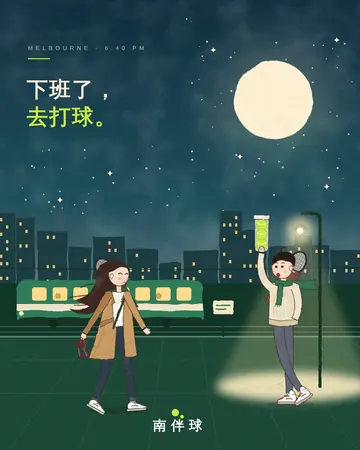
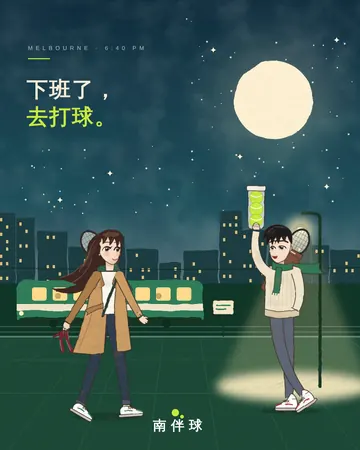
海报 85–86：漫画式五官和发型（storyface.py），人物放大
Claude-Session: https://claude.ai/code/session_014vi3eYmPjWCr2gwRMhjjif

diff --git a/marketing/storyface.py b/marketing/storyface.py
@@ -1,0 +1,125 @@
+"""绘本人物 v3 的头（11-10）：漫画式五官——有虹膜和高光的眼睛、眉形、尖下巴的脸型、一簇一簇的发梢和发丝高光。
+局部坐标：脸中心 (0,0)，脸高约 70；默认 3/4 侧脸朝右，mirror=-1 朝左。
+返回 (后发, 前面的头)：后发要画在身体后面。
+"""
+from storybook import OUT, SKIN
+
+SK_SH = '#EDBDA5'
+_n = [0]
+
+
+def _id(p):
+    _n[0] += 1
+    return f'{p}{_n[0]}'
+
+
+def _eye(cx, cy, w, h, look=(0, 0), lash=True, iris='#4A2A1C', sharp=False, gid=''):
+    """一只眼：眼白 + 渐变虹膜 + 两个高光 + 粗上眼线（女生外眼角上挑的睫毛）。"""
+    x0, x1 = cx - w / 2, cx + w / 2
+    top = cy - h * (0.62 if not sharp else 0.48)
+    shape = f'M{x0} {cy} C{cx - w*.25} {top} {cx + w*.25} {top - h*.05} {x1} {cy - h*.18} C{cx + w*.2} {cy + h*.42} {cx - w*.25} {cy + h*.4} {x0} {cy} Z'
+    cid = _id('ec')
+    ix, iy = cx + w * .06 + look[0], cy - h * .02 + look[1]
+    g = (f'<clipPath id="{cid}"><path d="{shape}"/></clipPath>'
+         f'<path d="{shape}" fill="#FFFDF8"/>'
+         f'<g clip-path="url(#{cid})"><ellipse cx="{ix}" cy="{iy}" rx="{w*.3:.1f}" ry="{h*.56:.1f}" fill="url(#{gid})"/>'
+         f'<ellipse cx="{ix}" cy="{iy + h*.06:.1f}" rx="{w*.13:.1f}" ry="{h*.26:.1f}" fill="#1A100C"/>'
+         f'<path d="M{x0} {cy - h*.3} H{x1}" stroke="#C9B6B0" stroke-width="{h*.25:.1f}" opacity=".35"/></g>'
+         f'<circle cx="{ix - w*.1:.1f}" cy="{iy - h*.2:.1f}" r="{max(1.1, w*.09):.1f}" fill="#fff"/>'
+         f'<circle cx="{ix + w*.1:.1f}" cy="{iy + h*.22:.1f}" r="{max(.6, w*.04):.1f}" fill="#fff" opacity=".9"/>')
+    # 上眼线（粗）+ 外眼角
+    g += f'<path d="M{x0 - .5} {cy + .5} C{cx - w*.25} {top - .6} {cx + w*.25} {top - h*.06 - .6} {x1 + .5} {cy - h*.18}" stroke="#1E1412" stroke-width="{2.4 if lash else 2.0}" fill="none" stroke-linecap="round"/>'
+    if lash:
+        g += f'<path d="M{x1 - w*.22:.1f} {cy - h*.42:.1f} Q{x1 + w*.08:.1f} {cy - h*.42:.1f} {x1 + w*.24:.1f} {cy - h*.62:.1f} Q{x1 + w*.12:.1f} {cy - h*.2:.1f} {x1:.1f} {cy - h*.1:.1f} Z" fill="#1E1412"/>'
+    g += f'<path d="M{cx - w*.15:.1f} {cy + h*.42:.1f} Q{cx + w*.1:.1f} {cy + h*.5:.1f} {x1 - w*.15:.1f} {cy + h*.2:.1f}" stroke="#9A6A5A" stroke-width=".9" fill="none" opacity=".7"/>'
+    return g
+
+
+def _smile_eye(cx, cy, w, lash=True):
+    g = f'<path d="M{cx - w/2} {cy} Q{cx} {cy - w*.42} {cx + w/2} {cy}" stroke="#1E1412" stroke-width="2.4" fill="none" stroke-linecap="round"/>'
+    if lash:
+        g += f'<path d="M{cx + w/2} {cy} l{w*.18:.1f} {-w*.12:.1f}" stroke="#1E1412" stroke-width="1.3" stroke-linecap="round"/>'
+    return g
+
+
+def _defs(gid, iris):
+    return (f'<radialGradient id="{gid}" cx=".5" cy=".65" r=".6"><stop offset="0" stop-color="{iris[1]}"/>'
+            f'<stop offset="1" stop-color="{iris[0]}"/></radialGradient>')
+
+
+FACE_F = 'M-25 -22 C-27 -2 -22 16 -9 27 C-1 33 6 36 10 34 C17 31 23 20 26 6 C28 -8 27 -24 20 -34 L-20 -34 Z'
+FACE_M = 'M-25 -24 C-27 -2 -23 16 -11 28 C-4 35 4 39 9 37 C17 34 23 24 26 10 C28 -6 28 -24 21 -36 L-20 -36 Z'
+
+
+def head(sex='f', hair='long', mood='smile', look=(0, 0), mirror=1, hc='#3B2620', hl='#8C5E46', tilt=0):
+    gid = _id('ir')
+    iris = ('#3A1F14', '#9A6440') if sex == 'f' else ('#1F1A1E', '#5E5660')
+    defs = f'<defs>{_defs(gid, iris)}</defs>'
+    face = FACE_F if sex == 'f' else FACE_M
+    g = defs
+    # 后发
+    back = ''
+    if hair == 'long':
+        back = (f'<path d="M0 -40 C-34 -44 -50 -18 -52 8 C-56 38 -82 60 -120 68 C-98 74 -86 78 -74 82 C-98 94 -118 94 -136 90 '
+                f'C-106 110 -70 106 -48 86 C-36 74 -30 56 -26 40 L24 30 C34 0 34 -30 0 -40 Z" fill="{hc}" stroke="{OUT}" stroke-width="1.2"/>'
+                f'<path d="M-46 4 C-56 40 -86 60 -114 66 M-40 20 C-50 56 -80 80 -110 86 M-34 -20 C-48 0 -54 30 -70 52" stroke="{hl}" stroke-width="1.6" fill="none" opacity=".75" stroke-linecap="round"/>'
+                f'<path d="M-62 56 C-84 70 -112 74 -142 70 M-56 74 C-76 90 -100 96 -124 98" stroke="{hc}" stroke-width="2" fill="none" stroke-linecap="round"/>')
+    elif hair == 'bob':
+        back = (f'<path d="M-30 -24 C-40 -52 32 -56 38 -20 L40 18 C42 26 46 30 50 30 C40 36 30 32 26 26 L-26 26 C-30 34 -42 36 -50 30 C-44 28 -42 22 -42 16 Z" fill="{hc}" stroke="{OUT}" stroke-width="1.2"/>'
+                f'<path d="M-36 -6 C-38 8 -40 20 -46 28 M34 -8 C36 6 38 18 44 28" stroke="{hl}" stroke-width="1.4" fill="none" opacity=".7"/>')
+    elif hair == 'short':
+        back = f'<path d="M-28 -10 C-34 -40 -10 -54 14 -50 C32 -46 38 -30 32 -12 Z" fill="{hc}"/>'
+    # 脖子 + 脸
+    g += f'<path d="M-9 26 L-8 50 L10 50 L11 26 Z" fill="{SKIN}" stroke="{OUT}" stroke-width="1.1"/><path d="M-8 30 Q2 38 11 30 L11 36 Q2 42 -8 36 Z" fill="{SK_SH}" opacity=".7"/>'
+    g += f'<ellipse cx="-22" cy="2" rx="5.5" ry="8" fill="{SKIN}" stroke="{OUT}" stroke-width="1.1"/><path d="M-23 -2 C-20 0 -20 5 -23 7" stroke="{OUT}" stroke-width=".9" fill="none" opacity=".6"/>'
+    g += f'<path d="{face}" fill="{SKIN}" stroke="{OUT}" stroke-width="1.3" stroke-linejoin="round"/>'
+    # 腮红（柔边）
+    bid = _id('bl')
+    g += (f'<defs><radialGradient id="{bid}"><stop offset="0" stop-color="#F28C86" stop-opacity="{.55 if sex == "f" else .22}"/><stop offset="1" stop-color="#F28C86" stop-opacity="0"/></radialGradient></defs>'
+          f'<ellipse cx="-5" cy="12" rx="10" ry="6" fill="url(#{bid})"/><ellipse cx="21" cy="12" rx="7" ry="5" fill="url(#{bid})"/>')
+    # 五官
+    if sex == 'f':
+        g += (f'<path d="M-15 -14 Q-7 -19 1 -16" stroke="#3A2620" stroke-width="1.6" fill="none" stroke-linecap="round"/>'
+              f'<path d="M12 -16 Q18 -18 24 -14" stroke="#3A2620" stroke-width="1.4" fill="none" stroke-linecap="round"/>')
+        if mood == 'smile_eyes':
+            g += _smile_eye(-6, 0, 14) + _smile_eye(17, 0, 10)
+        else:
+            g += _eye(-6, 1, 18, 14, look, True, gid=gid) + _eye(18, 1, 12, 13, look, True, gid=gid)
+        g += f'<path d="M24 6 C26 10 26 12 23 13" stroke="#B07A66" stroke-width="1.3" fill="none" stroke-linecap="round"/>'
+        if mood in ('smile', 'smile_eyes'):
+            g += (f'<path d="M7 22 Q13 26 19 21" stroke="#A8443C" stroke-width="1.7" fill="none" stroke-linecap="round"/>'
+                  f'<path d="M9 24.5 Q13 27 17 23.5" stroke="#E58A86" stroke-width="2" fill="none" stroke-linecap="round" opacity=".7"/>')
+        else:  # 'o'
+            g += f'<ellipse cx="13" cy="23" rx="3" ry="3.6" fill="#9A3A36"/><path d="M11 21.5 Q13 20.5 15 21.5" stroke="#E58A86" stroke-width="1" fill="none"/>'
+    else:
+        g += (f'<path d="M-18 -12 L-10 -16 L2 -15" stroke="#1E1A1D" stroke-width="3" fill="none" stroke-linecap="round" stroke-linejoin="round"/>'
+              f'<path d="M11 -15 L19 -16 L25 -12" stroke="#1E1A1D" stroke-width="2.6" fill="none" stroke-linecap="round" stroke-linejoin="round"/>')
+        if mood == 'smile_eyes':
+            g += _smile_eye(-6, 0, 14, False) + _smile_eye(17, 0, 10, False)
+        else:
+            g += _eye(-5, 2, 18, 12, look, False, sharp=True, gid=gid) + _eye(18, 2, 12, 11, look, False, sharp=True, gid=gid)
+        g += f'<path d="M25 5 Q28 11 23.5 13" stroke="#A8786A" stroke-width="1.4" fill="none" stroke-linecap="round"/>'
+        if mood == 'call':
+            g += f'<path d="M6 21 Q13 19 20 21 Q15 30 10 28 Q6 26 6 21 Z" fill="#7E2E2C"/><path d="M8 21.5 Q13 20.5 18 21.5" stroke="#fff" stroke-width="1.6"/>'
+        else:
+            g += f'<path d="M6 22 Q13 26 20 21" stroke="#7A3A34" stroke-width="1.7" fill="none" stroke-linecap="round"/><path d="M11 27 Q13 28 15 27" stroke="#B07A66" stroke-width="1" fill="none"/>'
+    # 前发
+    if hair == 'long':
+        g += (f'<path d="M-28 -4 C-34 -40 -6 -50 14 -46 C30 -42 36 -28 31 -8 Q28 -16 25 -22 Q23 -12 18 -6 Q17 -18 12 -27 Q8 -15 1 -10 Q2 -21 -3 -31 Q-8 -18 -15 -13 Q-14 -22 -17 -28 Q-22 -16 -28 -4 Z" fill="{hc}" stroke="{OUT}" stroke-width="1.2" stroke-linejoin="round"/>'
+              f'<path d="M-24 -14 C-30 0 -30 14 -26 30 C-24 18 -22 6 -20 -6 Z" fill="{hc}" stroke="{OUT}" stroke-width="1"/>'
+              f'<path d="M-16 -36 Q4.0 -45 24 -37 L23 -32 L20.0 -31 L12.0 -28 L4.0 -31 L-4.0 -28 L-12.0 -31 L-15 -32 Z" fill="{hl}" opacity=".45"/>'
+              f'<path d="M0 -44 C-6 -36 -10 -28 -12 -20 M12 -44 C10 -34 8 -26 6 -18" stroke="{hl}" stroke-width="1" fill="none" opacity=".8"/>'
+              f'<circle cx="-22" cy="13" r="2" fill="#E2C27A" stroke="#9A7A3A" stroke-width=".6"/>')
+    elif hair == 'bob':
+        g += (f'<path d="M-30 -4 C-34 -42 -4 -50 16 -46 C34 -42 40 -26 34 -4 Q31 -12 28 -18 Q26 -8 21 -4 Q20 -14 16 -22 Q12 -12 6 -9 Q6 -18 2 -24 Q-3 -14 -10 -10 Q-10 -18 -14 -24 Q-20 -12 -30 -4 Z" fill="{hc}" stroke="{OUT}" stroke-width="1.2" stroke-linejoin="round"/>'
+              f'<path d="M-26 -10 C-32 6 -32 16 -28 26 C-24 18 -22 6 -20 -8 Z M32 -10 C36 4 36 16 32 24 C30 14 28 4 28 -6 Z" fill="{hc}" stroke="{OUT}" stroke-width="1"/>'
+              f'<path d="M-14 -37 Q6.0 -46 26 -38 L25 -33 L22.0 -32 L14.0 -29 L6.0 -32 L-2.0 -29 L-10.0 -32 L-13 -33 Z" fill="{hl}" opacity=".45"/>'
+              f'<path d="M-2 -4 L2 -8" stroke="#E9C46A" stroke-width="2.4" stroke-linecap="round"/>')  # 小发夹
+    else:  # 男生：蓬松的碎发刘海 + 两侧推短
+        g += '<g transform="translate(4 -18) scale(.86) translate(-4 18)">'
+        g += (              f'<path d="M-32 -6 C-42 -40 -20 -62 10 -60 C36 -58 50 -40 46 -16 Q42 -22 38 -26 Q40 -12 36 -2 Q32 -14 26 -22 Q26 -10 21 -4 Q18 -18 12 -26 Q10 -14 4 -8 Q2 -20 -4 -28 Q-8 -16 -14 -12 Q-14 -24 -20 -30 Q-24 -18 -32 -6 Z" fill="{hc}" stroke="{OUT}" stroke-width="1.2" stroke-linejoin="round"/>'
+                            f'<path d="M-6 -42 C6 -32 14 -18 15 -4 C10 -16 2 -26 -12 -34 Z" fill="{hc}"/>'
+              f'<path d="M-8 -52 Q4 -56 16 -54 M20 -50 Q30 -46 34 -38" stroke="{hl}" stroke-width="2.2" fill="none" opacity=".6" stroke-linecap="round"/></g>')
+    t = f'rotate({tilt})' if tilt else ''
+    wrap = lambda s_: f'<g transform="scale({mirror} 1) {t}">{s_}</g>'
+    return wrap(back), wrap(g)

diff --git a/marketing/storyfig85.py b/marketing/storyfig85.py
@@ -1,5 +1,6 @@
 """85 号的两个人：下班走来的女生、靠着路灯等她的男生（局部坐标，脚底 y=0，身高约 440）。"""
 from storybook import *
+from storyface import head
 
 
 def racket_in_bag(cx, cy, rot, bag, s=1.0):
@@ -33,11 +34,8 @@ def woman_walk():
     g = ''
     # 身后的球拍包（拍头从左肩后探出来）
     g += racket_in_bag(-34, -404, -32, '#2F5D4A')
-    # 长发，被走路带起的风吹向身后
-    g += (f'<path d="M-2 -428 C-40 -432 -58 -404 -60 -374 C-62 -346 -84 -322 -120 -316 C-102 -308 -86 -304 -76 -298 '
-          f'C-98 -286 -116 -286 -134 -290 C-106 -270 -72 -272 -52 -292 C-40 -304 -30 -326 -22 -344 L22 -352 C36 -384 34 -416 -2 -428 Z" fill="{hair}" stroke="{OUT}" stroke-width="1.3"/>'
-          f'<path d="M-58 -340 C-80 -326 -110 -330 -138 -322 M-50 -316 C-70 -300 -100 -300 -122 -302 M-40 -366 C-60 -360 -86 -364 -104 -352" stroke="{hair}" stroke-width="2.2" fill="none" stroke-linecap="round"/>'
-          f'<path d="M-44 -380 C-50 -350 -66 -330 -90 -320" stroke="#6E4A3A" stroke-width="1.4" fill="none" opacity=".7"/>')
+    hb, hf = head('f', 'long', 'smile', look=(1, 0))
+    g += f'<g transform="translate(6 -392)">{hb}</g>'
     # 后腿：脚跟抬起
     g += limb((-6, -228), (-30, -112), (-62, -30), 30, 17, pants)
     g += f'<path d="M-70 -42 L-52 -30 L-56 -22 L-74 -34 Z" fill="#46536A" stroke="{OUT}" stroke-width="1.2"/>'
@@ -68,18 +66,7 @@ def woman_walk():
     g += f'<path d="M70 -246 L86 -232" stroke="{OUT}" stroke-width="1.2"/>'
     g += hand(81, -232, -40, 'open')
     g += f'<rect x="72" y="-246" width="8" height="5" rx="1" fill="#D8C08A" transform="rotate(-40 76 -243)"/>'
-    # 脖子 + 头
-    g += f'<path d="M-2 -362 L12 -362 L14 -338 L0 -338 Z" fill="{SKIN}" stroke="{OUT}" stroke-width="1.2"/>'
-    g += f'<ellipse cx="6" cy="-390" rx="29" ry="33" fill="{SKIN}" stroke="{OUT}" stroke-width="1.4"/>'
-    g += f'<ellipse cx="-14" cy="-384" rx="5" ry="7" fill="{SKIN}" stroke="{OUT}" stroke-width="1.1"/><circle cx="-15" cy="-375" r="2.4" fill="#D8B45A"/>'
-    # 刘海往后梳，几缕碎发
-    g += (f'<path d="M-24 -396 C-26 -430 22 -436 34 -404 C24 -412 10 -414 0 -406 C-8 -400 -16 -396 -24 -396 Z" fill="{hair}" stroke="{OUT}" stroke-width="1.3"/>'
-          f'<path d="M-6 -420 C-20 -428 -36 -424 -48 -412 M8 -424 C-6 -440 -26 -440 -40 -432" stroke="{hair}" stroke-width="2" fill="none" stroke-linecap="round"/>')
-    # 脸：笑眯眯的眼睛、腮红、小鼻子、嘴角上扬
-    g += (f'<path d="M6 -390 Q11 -395 16 -390 M24 -390 Q28 -394 32 -390" stroke="{OUT}" stroke-width="2.2" fill="none" stroke-linecap="round"/>'
-          f'<ellipse cx="10" cy="-377" rx="7" ry="4" fill="#F09A92" opacity=".55"/><ellipse cx="31" cy="-377" rx="5" ry="3.6" fill="#F09A92" opacity=".55"/>'
-          f'<path d="M35 -386 C37 -382 37 -380 34 -379" stroke="{OUT}" stroke-width="1.3" fill="none"/>'
-          f'<path d="M18 -369 Q24 -365 29 -370" stroke="#B5524A" stroke-width="2" fill="none" stroke-linecap="round"/>')
+    g += f'<g transform="translate(6 -392)">{hf}</g>'
     return g
 
 
@@ -107,20 +94,10 @@ def man_lean():
            + ''.join(f'<circle cx="-62" cy="{y}" r="16" fill="#C6EA3D" stroke="#9DBA2A" stroke-width="1"/><path d="M-76 {y - 6} Q-62 {y + 4} -48 {y - 6}" stroke="#fff" stroke-width="2" fill="none"/>' for y in (-512, -484, -456))
            + f'<rect x="-85" y="-540" width="46" height="12" rx="4" fill="#F4F1E6" stroke="{OUT}" stroke-width="1.4"/>')
     g += can + hand(-62, -436, 180, 'hold')
-    # 脖子、头
-    g += f'<path d="M-8 -364 L8 -364 L8 -340 L-8 -340 Z" fill="{SKIN}" stroke="{OUT}" stroke-width="1.2"/>'
-    g += f'<ellipse cx="-4" cy="-392" rx="30" ry="33" fill="{SKIN}" stroke="{OUT}" stroke-width="1.4"/>'
-    g += f'<ellipse cx="22" cy="-388" rx="5" ry="7" fill="{SKIN}" stroke="{OUT}" stroke-width="1.1"/>'
-    g += (f'<path d="M-32 -396 C-38 -432 0 -444 26 -428 C36 -420 36 -404 30 -392 C26 -404 16 -410 6 -408 C-4 -416 -20 -410 -32 -396 Z" fill="{hair}" stroke="{OUT}" stroke-width="1.3"/>'
-          f'<path d="M-6 -432 C-10 -446 0 -452 6 -446" stroke="{hair}" stroke-width="2.4" fill="none" stroke-linecap="round"/>')
+    hb, hf = head('m', 'short', 'call', look=(1, 0), mirror=-1, hc='#1E1A1D', hl='#5A6680')
+    g += f'<g transform="translate(-4 -392)">{hf}</g>'
     # 围巾绕脖子 + 垂在胸前的一截
     g += (f'<path d="M-24 -358 C-8 -350 12 -350 26 -358 L26 -340 C10 -334 -10 -334 -24 -340 Z" fill="{scarf}" stroke="{OUT}" stroke-width="1.3"/>'
           f'<path d="M-14 -344 L-22 -284 L-6 -282 L0 -342 Z" fill="{scarf}" stroke="{OUT}" stroke-width="1.3"/>'
           f'<path d="M-22 -286 l-2 8 M-17 -285 l-1 8 M-12 -284 l0 8" stroke="{scarf}" stroke-width="2"/>')
-    # 脸：朝左喊她
-    g += (f'<circle cx="-20" cy="-392" r="3.6" fill="{OUT}"/><circle cx="-2" cy="-392" r="3.6" fill="{OUT}"/>'
-          f'<path d="M-25 -402 Q-20 -405 -15 -402 M-6 -402 Q-1 -405 4 -402" stroke="{OUT}" stroke-width="1.5" fill="none"/>'
-          f'<ellipse cx="-27" cy="-378" rx="5" ry="3.5" fill="#F09A92" opacity=".5"/><ellipse cx="6" cy="-378" rx="6" ry="3.6" fill="#F09A92" opacity=".5"/>'
-          f'<path d="M-30 -386 C-34 -382 -33 -379 -29 -378" stroke="{OUT}" stroke-width="1.3" fill="none"/>'
-          f'<ellipse cx="-14" cy="-368" rx="5" ry="6" fill="#8C3A34"/>')
     return g

diff --git a/marketing/storyfig86.py b/marketing/storyfig86.py
@@ -1,6 +1,7 @@
 """86 号的两个人：撑伞（伞歪向她、自己半边肩膀湿了）的男生，伸手出伞外试雨的女生。"""
 from storybook import *
 from storyfig85 import racket_in_bag
+from storyface import head
 
 
 def umbrella_man():
@@ -42,22 +43,14 @@ def umbrella_man():
     # 右臂举着伞柄
     g += limb((34, -334), (74, -330), (70, -392), 22, 15, jacket)
     g += hand(71, -398, 190, 'hold')
-    # 头：低头看她，笑
-    g += f'<path d="M-8 -364 L8 -364 L8 -342 L-8 -342 Z" fill="{SKIN}" stroke="{OUT}" stroke-width="1.2"/>'
-    g += f'<ellipse cx="2" cy="-392" rx="30" ry="33" fill="{SKIN}" stroke="{OUT}" stroke-width="1.4"/>'
-    g += f'<ellipse cx="-24" cy="-388" rx="5" ry="7" fill="{SKIN}" stroke="{OUT}" stroke-width="1.1"/>'
-    g += (f'<path d="M-28 -392 C-36 -430 0 -444 24 -430 C38 -420 38 -404 32 -396 C24 -408 12 -412 0 -408 C-10 -414 -20 -406 -28 -392 Z" fill="{hair}" stroke="{OUT}" stroke-width="1.3"/>'
-          f'<path d="M8 -408 C14 -400 22 -398 28 -398" stroke="{hair}" stroke-width="3" fill="none" stroke-linecap="round"/>')
-    g += (f'<path d="M6 -388 Q10 -392 14 -388 M22 -388 Q26 -392 30 -388" stroke="{OUT}" stroke-width="2.2" fill="none" stroke-linecap="round"/>'
-          f'<ellipse cx="6" cy="-376" rx="6" ry="3.6" fill="#F09A92" opacity=".5"/><ellipse cx="30" cy="-376" rx="5" ry="3.4" fill="#F09A92" opacity=".5"/>'
-          f'<path d="M33 -384 C36 -380 35 -378 32 -377" stroke="{OUT}" stroke-width="1.3" fill="none"/>'
-          f'<path d="M14 -368 Q20 -363 26 -368" stroke="#9A4A40" stroke-width="2" fill="none" stroke-linecap="round"/>')
+    hb, hf = head('m', 'short', 'smile', look=(1.5, 1.2), hc='#1E1A1D', hl='#5A6680')
+    g += f'<g transform="translate(2 -392)">{hb}{hf}</g>'
     return g
 
 
 def rain_girl():
     hair, card, card_d, skirt = '#3A2520', '#F6EEDC', '#E2D6BC', '#E98C78'
-    g = racket_in_bag(-38, -400, -26, '#2F4A6A')
+    g = racket_in_bag(-38, -400, -26, '#2F4A6A') + '<!--HB-->'
     # 腿、白袜、玛丽珍鞋
     g += limb((-10, -196), (-12, -100), (-14, -26), 24, 13, SKIN)
     g += limb((12, -196), (18, -100), (22, -26), 24, 13, SKIN)
@@ -83,16 +76,7 @@ def rain_girl():
     # 右手伸到伞外，掌心朝上接雨
     g += limb((28, -336), (80, -324), (124, -318), 20, 13, card)
     g += hand(126, -320, 0, 'palm')
-    # 头仰起来看天
-    g += f'<g transform="rotate(-12 4 -362)">'
-    g += (f'<path d="M-36 -392 C-42 -436 34 -444 40 -394 L44 -352 C36 -344 28 -350 24 -358 L-22 -358 C-28 -348 -38 -346 -46 -352 Z" fill="{hair}" stroke="{OUT}" stroke-width="1.3"/>'
-          f'<path d="M-40 -356 C-50 -350 -58 -352 -62 -358 M40 -356 C46 -348 54 -348 58 -354" stroke="{hair}" stroke-width="2.4" fill="none" stroke-linecap="round"/>')
-    g += f'<path d="M-2 -364 L12 -364 L12 -340 L-2 -340 Z" fill="{SKIN}" stroke="{OUT}" stroke-width="1.2"/>'
-    g += f'<ellipse cx="4" cy="-388" rx="28" ry="32" fill="{SKIN}" stroke="{OUT}" stroke-width="1.4"/>'
-    g += (f'<path d="M-30 -396 C-30 -430 34 -434 36 -396 C26 -404 22 -398 16 -404 C10 -398 2 -404 -4 -398 C-12 -404 -20 -398 -30 -396 Z" fill="{hair}" stroke="{OUT}" stroke-width="1.3"/>')
-    g += (f'<circle cx="0" cy="-386" r="3.8" fill="{OUT}"/><circle cx="20" cy="-386" r="3.8" fill="{OUT}"/>'
-          f'<circle cx="1" cy="-388" r="1.2" fill="#fff"/><circle cx="21" cy="-388" r="1.2" fill="#fff"/>'
-          f'<ellipse cx="-6" cy="-374" rx="6" ry="3.6" fill="#F09A92" opacity=".55"/><ellipse cx="26" cy="-374" rx="6" ry="3.6" fill="#F09A92" opacity=".55"/>'
-          f'<ellipse cx="11" cy="-366" rx="3.6" ry="4.4" fill="#A8443C"/>')
-    g += '</g>'
+    hb, hf = head('f', 'bob', 'o', look=(0.5, -2.2), tilt=-12, hc='#2E1E1A', hl='#8A6050')
+    g = g.replace('<!--HB-->', f'<g transform="translate(4 -390)">{hb}</g>')
+    g += f'<g transform="translate(4 -390)">{hf}</g>'
     return g

diff --git a/marketing/posters/p86_rain_ten_minutes.py b/marketing/posters/p86_rain_ten_minutes.py
@@ -39,15 +39,15 @@ def svg():
     rain = ''.join(f'<path d="M{x:.0f} {y:.0f} l-6 {random.uniform(18, 34):.0f}"/>' for x, y in
                    [(x, y) for x, y in [(random.uniform(0, 1080), random.uniform(0, 1) ** 2.2 * 640) for _ in range(70)] if not (x < 520 and 100 < y < 420)])
     # 角色 + 伞
-    gy = 1156
-    xm, xr, sc = 350, 600, 1.12
+    gy = 1192
+    xm, xr, sc = 330, 600, 1.25
     def pair(sfx):
         return (f'<g transform="translate({xm} {gy}) scale({sc})" filter="url(#wc86)"><ellipse rx="70" ry="9" fill="#000" opacity=".14"/>{umbrella_man()}</g>'
                 f'<g transform="translate({xr} {gy}) scale({sc})" filter="url(#wc86)"><ellipse rx="64" ry="9" fill="#000" opacity=".14"/>{rain_girl()}</g>')
     umb = ''
     drop = f'<path transform="translate({xr + 150*sc:.0f} {gy - 372*sc:.0f})" d="M0 -16 Q9 -2 9 4 A9 9 0 0 1 -9 4 Q-9 -2 0 -16Z" fill="#BFD9E4" stroke="#171412" stroke-width="2.4" filter="url(#rough2)"/>'
     # 前景地面 + 水洼倒影
-    pud = '<ellipse cx="520" cy="1194" rx="270" ry="26"/>'
+    pud = '<ellipse cx="800" cy="1206" rx="190" ry="17"/>'
     refl = f'<g clip-path="url(#pc86)" opacity=".38"><g transform="translate(0 {2*gy}) scale(1 -1)">{pair("x")}</g></g>'
     body = f'''
 <defs>
@@ -69,7 +69,7 @@ def svg():
 {hatch(500, 0, by, W, 1350, '#A59C86', .3, ang=-10, ln=(12, 26))}
 <g fill="#B8CDD0">{pud}</g>
 {refl}
-<g fill="none" stroke="#F4F7F2" stroke-width="2" opacity=".7"><ellipse cx="330" cy="1196" rx="26" ry="5"/><ellipse cx="330" cy="1196" rx="48" ry="9" opacity=".5"/></g>
+<g fill="none" stroke="#F4F7F2" stroke-width="2" opacity=".7"><ellipse cx="900" cy="1206" rx="26" ry="5"/><ellipse cx="900" cy="1206" rx="48" ry="9" opacity=".5"/></g>
 {pair('')}
 {umb}
 {drop}

diff --git a/marketing/posters/p85_tram_after_work.py b/marketing/posters/p85_tram_after_work.py
@@ -60,8 +60,8 @@ def svg():
 </g>
 <circle cx="{lx}" cy="692" r="40" fill="#FFF0B8" opacity=".7" filter="url(#bl14)"/>
 <circle cx="{lx}" cy="692" r="10" fill="#FFF8DA"/>'''
-    her = f'<g transform="translate(350 1232) scale(1.05)" filter="url(#wc85)"><ellipse cx="0" cy="0" rx="80" ry="9" fill="#000" opacity=".18"/>{woman_walk()}</g>'
-    him = f'<g transform="translate(850 1212) scale(1.05)" filter="url(#wc85)"><ellipse cx="20" cy="0" rx="70" ry="9" fill="#000" opacity=".16"/>{man_lean()}</g>'
+    her = f'<g transform="translate(320 1250) scale(1.28)" filter="url(#wc85)"><ellipse cx="0" cy="0" rx="80" ry="9" fill="#000" opacity=".18"/>{woman_walk()}</g>'
+    him = f'<g transform="translate(846 1232) scale(1.25)" filter="url(#wc85)"><ellipse cx="20" cy="0" rx="70" ry="9" fill="#000" opacity=".16"/>{man_lean()}</g>'
     body = f'''
 <defs>
  <linearGradient id="bg85" x1="0" y1="0" x2="0" y2="1"><stop offset="0" stop-color="#0D2A3A"/><stop offset=".45" stop-color="#1D4F5A"/><stop offset=".68" stop-color="#6B7F86"/><stop offset=".78" stop-color="#C9A28E"/></linearGradient>

diff --git a/.claude/skills/nanbanqiu-poster/品味手册.md b/.claude/skills/nanbanqiu-poster/品味手册.md
@@ -99,3 +99,4 @@
 - 10-30 用户发 78 号图：「这个小毛设计得很好」→ 以 figure3（立体球 + 黑细线手脚 + face2 脸）为标准，去掉眉毛 / 睫毛 / 头顶毛；小绒只换成嫩粉球 + 小蝴蝶结。v4（mao4）弃用。
 - 11-10 绘本风（85–86）反馈：主角要用年轻男女（读者才有代入感、觉得是自己的故事），不用小毛；画面要有故事（谁在等谁、手里拿着什么），单个角色站着不知道在干嘛就单调；看不出是什么的东西（85 首版左下角的灌木团）删掉。绘本小人用 `marketing/storybook.py` 的 `person()`。
 - 11-10 二轮：人物要好看、有个性，细节（手的动作、鞋子）要认真做。参考几米和水彩人物插画的长处——修长比例、风吹起头发和衣摆、有拇指的手、系带球鞋 / 玛丽珍鞋 + 白袜；别人的角色有版权，不照搬，只学画法。人物在 `storyfig85.py` `storyfig86.py`，零件（limb / hand / sneaker / maryjane / wc_filter）在 `storybook.py`。
+- 11-10 三轮：脸要好看、帅、让人心动，发型要有细节 → 漫画式五官（`storyface.head()`：虹膜 + 两个高光 + 粗上眼线、女生外眼角上挑、男生剑眉、尖下巴、一簇簇弧形发梢 + 发丝高光）；人物放大到身高约 560px，脸才看得清。
